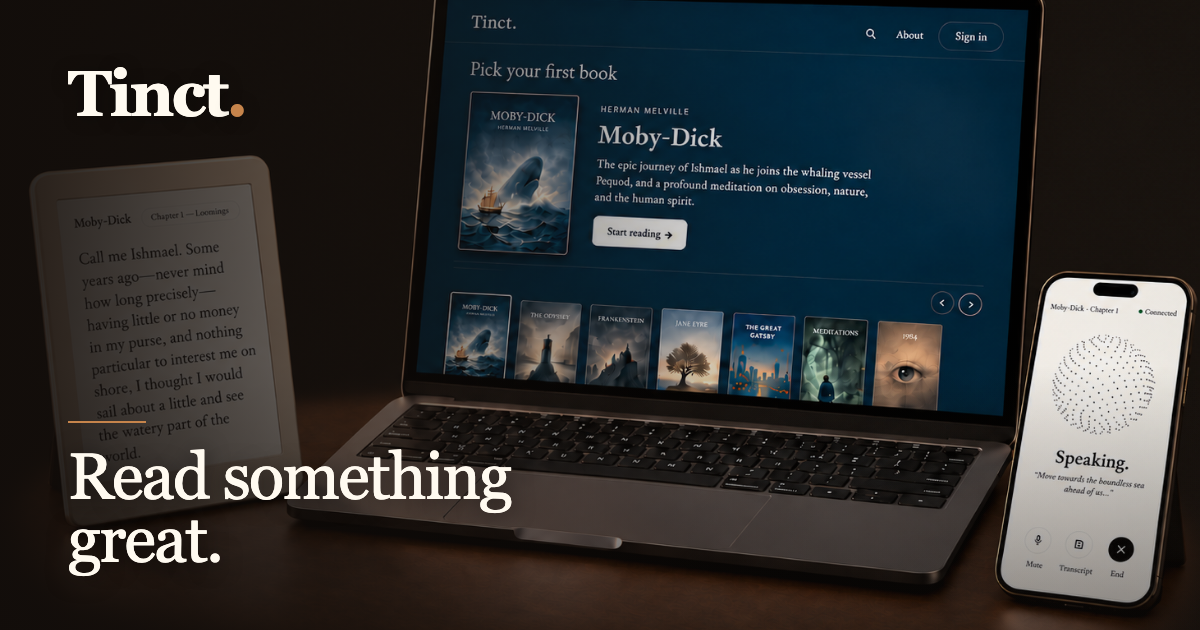
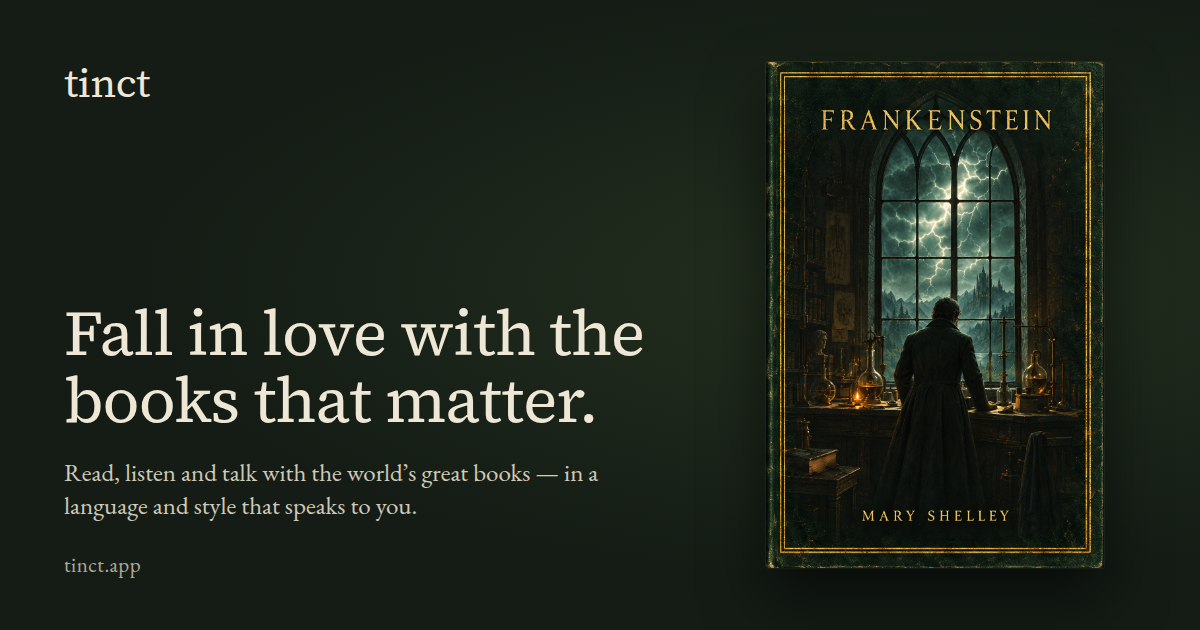
Link previews: Frankenstein's painted cover on library green (#299)
Shared-link image is now design C (library green, wordmark, Frankenstein's cover) at brand/20261001/share-tinct-1200x630.jpg; static og-image-v2.jpg / og-image.png regenerated. Book workflow: cite third-party evidence by URL and quote, never save whole pages.

diff --git a/app/scripts/seo/og-image-template.html b/app/scripts/seo/og-image-template.html
@@ -1,39 +1,24 @@
-<!DOCTYPE html>
-<html lang="en">
-<head>
-  <meta charset="UTF-8">
-  <link rel="stylesheet" href="../../public/fonts/tinct-fonts.css">
-  <style>
-    * { margin: 0; padding: 0; box-sizing: border-box; }
-    html, body { width: 1200px; height: 630px; overflow: hidden; }
-    body { background: #191411; color: #fffaf0; font-family: 'EB Garamond', Georgia, serif; }
-    .scene, .wash, .card { position: absolute; inset: 0; }
-    .scene { width: 100%; height: 100%; object-fit: cover; object-position: center 54%; transform: scale(1.015); }
-    .wash {
-      background:
-        linear-gradient(90deg, rgba(18, 13, 10, 0.92) 0%, rgba(18, 13, 10, 0.56) 34%, rgba(18, 13, 10, 0.06) 68%),
-        linear-gradient(0deg, rgba(18, 13, 10, 0.48), transparent 42%);
-    }
-    .card { display: flex; flex-direction: column; justify-content: space-between; padding: 62px 68px 58px; }
-    .wordmark {
-      font-family: 'Playfair Display', Georgia, serif;
-      font-weight: 700; font-size: 64px; letter-spacing: -0.035em; line-height: 1;
-      text-shadow: 0 2px 18px rgba(0, 0, 0, 0.3);
-    }
-    .wordmark .dot { color: #c6844b; }
-    .title {
-      max-width: 520px; font-size: 65px; font-weight: 500; line-height: 0.98;
-      letter-spacing: -0.025em; text-wrap: balance; text-shadow: 0 2px 22px rgba(0, 0, 0, 0.55);
-    }
-    .rule { width: 78px; height: 2px; margin-bottom: 22px; background: #c6844b; }
-  </style>
-</head>
+<!doctype html>
+<html><head><meta charset="utf-8">
+<!-- The shared social preview (1200x630): Frankenstein's painted cover on the
+     library's green, the library wordmark and the brand line. Regenerate with
+     node scripts/seo/generate-og-image.cjs -->
+<style>
+@font-face{font-family:Disp;src:url(../../public/assets/about-v20/fonts/serif.woff2)}
+@font-face{font-family:Body;src:url(../../public/assets/about-v20/fonts/reader-garamond.woff2)}
+*{margin:0;box-sizing:border-box}
+body{width:1200px;height:630px;overflow:hidden;position:relative;color:#efe7d6;font-family:Body,Georgia,serif;background:radial-gradient(ellipse at 75% 45%,#24301f 0%,#141c15 60%)}
+.copy{position:absolute;left:64px;top:56px;bottom:52px;width:600px;display:flex;flex-direction:column}
+.mark{font-family:Disp,Georgia,serif;font-size:40px;letter-spacing:-.5px}
+h1{font-family:Disp,Georgia,serif;font-weight:400;font-size:64px;line-height:1.04;letter-spacing:-1px}
+p{font-size:25px;line-height:1.35;opacity:.86;margin-top:22px}
+.url{font-size:21px;opacity:.7;letter-spacing:.5px;margin-top:28px}
+.cover{position:absolute;right:96px;top:62px;width:338px;height:506px;background:url(../../public/lab/library_2/assets/frankenstein.jpg) center/cover;box-shadow:0 30px 60px rgba(0,0,0,.55),0 0 0 1px rgba(239,231,214,.08);border-radius:3px}
+</style></head>
 <body>
-  <img class="scene" src="../../public/assets/about-v20/assets/introducing-tinct-20260914-v2.png" alt="">
-  <div class="wash"></div>
-  <div class="card">
-    <div class="wordmark">Tinct<span class="dot">.</span></div>
-    <div><div class="rule"></div><div class="title">Read something great.</div></div>
-  </div>
-</body>
-</html>
+<div class="copy"><div class="mark">tinct</div><div style="flex:1"></div>
+<h1>Fall in love with the books that matter.</h1>
+<p>Read, listen and talk with the world’s great books — in a language and style that speaks to you.</p>
+<div class="url">tinct.app</div></div>
+<div class="cover" role="img" aria-label="Frankenstein by Mary Shelley"></div>
+</body></html>

diff --git a/app/src/worker/routes/seo.ts b/app/src/worker/routes/seo.ts
@@ -62,7 +62,7 @@ const BOOK_META: Record<string, BookMetaEntry & { image?: string }> = {
   },
 }
 
-const BRAND_IMAGE = 'https://tinct.app/brand/20260921/share-tinct-1200x630.jpg'
+const BRAND_IMAGE = 'https://tinct.app/brand/20261001/share-tinct-1200x630.jpg'
 const BRAND_INSTALL = "  <link rel=\"icon\" href=\"/brand/20260921/favicon.svg\" type=\"image/svg+xml\">\n  <link rel=\"icon\" href=\"/brand/20260921/favicon.ico\" sizes=\"any\">\n  <link rel=\"apple-touch-icon\" href=\"/brand/20260921/apple-touch-icon.png\" sizes=\"180x180\">\n  <link rel=\"manifest\" href=\"/brand/manifest.webmanifest\">\n"
 /** Filter navigation cards only; the preserved reading text is never rewritten. */
 export function filterHeldDiscoveryCards(html: string): string {
@@ -400,7 +400,7 @@ export async function handleSeoAndStaticRequest(request: Request, env: SeoEnv, c
         const html = request.method === 'HEAD' ? null : (await home.text())
           .replace(/<meta\s+name="robots"[^>]*>/i, '')
           .replace(/<title>[^<]*<\/title>/i, `<title>${homeTitle}</title>`)
-          .replace('</head>', `<meta name="description" content="${homeDescription}"><link rel="canonical" href="https://tinct.app/"><meta property="og:title" content="${homeTitle}"><meta property="og:description" content="${homeDescription}"><meta property="og:url" content="https://tinct.app/"><meta property="og:type" content="website"><meta property="og:site_name" content="Tinct"><meta property="og:image" content="https://tinct.app/brand/20260921/share-tinct-1200x630.jpg"><meta property="og:image:type" content="image/jpeg"><meta property="og:image:width" content="1200"><meta property="og:image:height" content="630"><meta name="twitter:card" content="summary_large_image"><meta name="twitter:title" content="${homeTitle}"><meta name="twitter:description" content="${homeDescription}"><meta name="twitter:image" content="https://tinct.app/brand/20260921/share-tinct-1200x630.jpg"></head>`)
+          .replace('</head>', `<meta name="description" content="${homeDescription}"><link rel="canonical" href="https://tinct.app/"><meta property="og:title" content="${homeTitle}"><meta property="og:description" content="${homeDescription}"><meta property="og:url" content="https://tinct.app/"><meta property="og:type" content="website"><meta property="og:site_name" content="Tinct"><meta property="og:image" content="https://tinct.app/brand/20261001/share-tinct-1200x630.jpg"><meta property="og:image:type" content="image/jpeg"><meta property="og:image:width" content="1200"><meta property="og:image:height" content="630"><meta name="twitter:card" content="summary_large_image"><meta name="twitter:title" content="${homeTitle}"><meta name="twitter:description" content="${homeDescription}"><meta name="twitter:image" content="https://tinct.app/brand/20261001/share-tinct-1200x630.jpg"></head>`)
         const response = new Response(html == null ? null : brandedHtml(html, url.searchParams.get('book') || undefined, true), home)
         response.headers.delete('X-Robots-Tag')
         response.headers.delete('Content-Length')

diff --git a/app/src/worker.seo.test.ts b/app/src/worker.seo.test.ts
@@ -336,8 +336,8 @@ describe('worker SEO routing', () => {
       expect(body).toContain('approved cinematic library')
       expect(body).not.toContain('noindex')
       expect(body).toContain('href="https://tinct.app/"')
-      expect(body).toContain('<meta property="og:image" content="https://tinct.app/brand/20260921/share-tinct-1200x630.jpg">')
-      expect(body).toContain('<meta name="twitter:image" content="https://tinct.app/brand/20260921/share-tinct-1200x630.jpg">')
+      expect(body).toContain('<meta property="og:image" content="https://tinct.app/brand/20261001/share-tinct-1200x630.jpg">')
+      expect(body).toContain('<meta name="twitter:image" content="https://tinct.app/brand/20261001/share-tinct-1200x630.jpg">')
       expect(body).toContain('<meta property="og:description" content="Read great books with parallel editions, audiobooks and a voice companion. Explore the Tinct library and start reading.">')
     }
   })

diff --git a/books/BOOK-TASK-WORKFLOW.md b/books/BOOK-TASK-WORKFLOW.md
@@ -35,6 +35,8 @@ These restrictions override broader path lists, auto-documentation rules, “pus
 
 Complete the authorized content work and independent reviews. Supply source provenance, pinned baselines, accepted candidate hashes, changed paragraph lists, character identity decisions and structural mappings where relevant. Record remaining issues honestly.
 
+For third-party evidence (dealer listings, articles, reviews), record the URL, retrieval date and the exact passage you rely on. Never save whole third-party web pages into the repository: they are public once pushed and can carry tracking links and signed URLs that secret scanners flag.
+
 Before committing, inspect the diff: every changed file must be a content artifact in the owned staging folder, with no code or shared/runtime files. If unexpected changes exist, preserve them and exclude them from your commit; do not revert someone else's work.
 
 Push the package and give Codex the branch, exact commit, package path, acceptance status and integration requirements. “Content accepted / handed off” and “published” are distinct statuses. Codex performs integration, required app verification and serialized release.
